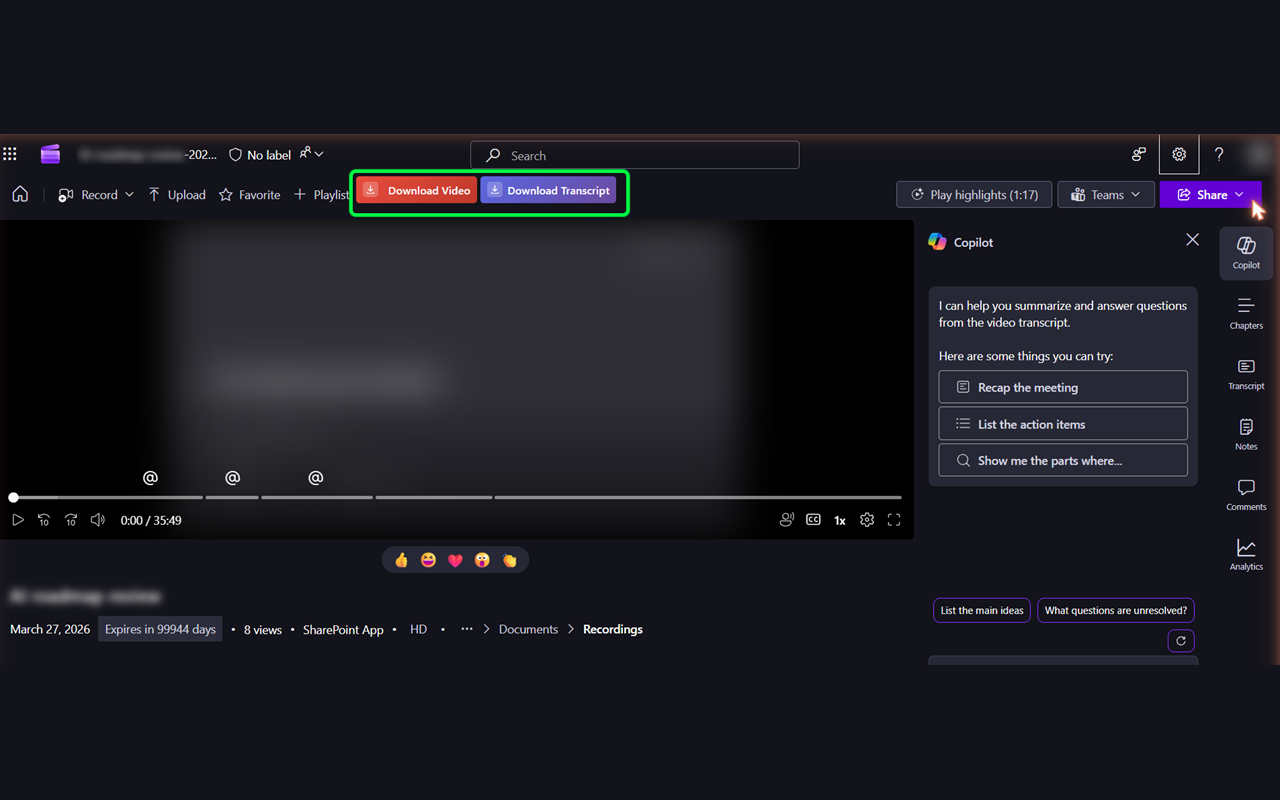
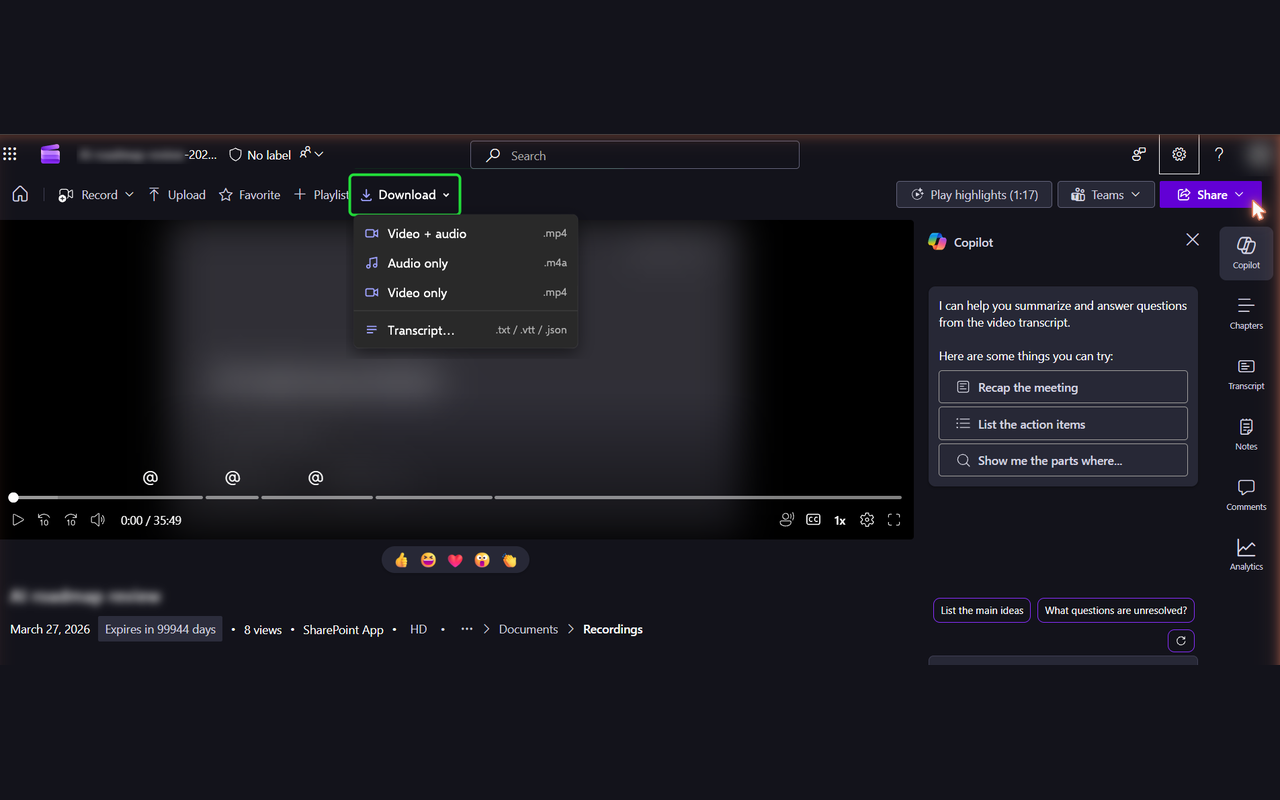
docs: README, demo site and store listing for the Download menu
New dark and light recording.png for the demo site and the 1280x800
store version derived from the dark one. They are your existing
captures with the two old buttons painted over and the extension's
own rendering of the Download menu, open, pasted in its place; the
rest of each image is the original, pixel for pixel. The highlight box
keeps the original colours (green on dark, yellow on light).

Text: the README image alt text and usage steps, the store
description's video, transcript and how-to sections, the demo site's
recording caption and the hero image's alt text now describe the
Download menu instead of the red and purple buttons.

Changed region(s): [[0.25, 0.1875, 0.5, 0.375], [0.2812, 0.4062, 0.3438, 0.4375], [0.4062, 0.4062, 0.4375, 0.4375]]

diff --git a/chrome-store/description.md b/chrome-store/description.md
@@ -27,7 +27,7 @@ WHERE IT WORKS
 
 VIDEO & AUDIO DOWNLOAD
 
-A red "Download Video" button appears in the top command bar of any recording. Click it, pick a format, and the file lands in your Downloads folder. No external tools.
+A "Download" menu appears in the command bar of any recording, next to Record and Upload. Pick a format and the file lands in your Downloads folder. No external tools.
 
 Three format options:
 🎬 Video + Audio (.mp4) — Best quality, original streams copied
@@ -63,9 +63,8 @@ Three professional formats:
 - Easy to scan and summarise
 
 How it works:
-- Click the "Transcript" tab on a recording page
-- A purple "Download Transcript" button appears in the transcript panel
-- Click it to see live previews of all three formats
+- Open the "Download" menu in the command bar and pick "Transcript…" (or use the Download Transcript button in the transcript panel)
+- See live previews of all three formats
 - Choose your format, customize the filename, and download
 
 If the meeting was never transcribed, the extension shows a clear "no transcript available" dialog rather than silently failing.
@@ -88,8 +87,8 @@ HOW TO USE
 
 1. Install the extension from the Chrome Web Store.
 2. Open a meeting recording or shared video in Teams, SharePoint, or the Stream player.
-3. For video: click "Download Video" in the command bar (or the floating banner). Pick a format and click Download — the file lands in your Downloads folder. Tune the "Parallel segment downloads" selector if you want faster (higher) or gentler-on-throttling (lower) downloads.
-4. For transcripts: click the Transcript tab, then "Download Transcript", choose a format, and save.
+3. For video: click "Download" in the command bar and pick Video + audio, Audio only or Video only (or use the floating banner). Click Download in the dialog — the file lands in your Downloads folder. Tune the "Parallel segment downloads" selector if you want faster (higher) or gentler-on-throttling (lower) downloads.
+4. For transcripts: click "Download", then "Transcript…", choose a format, and save.
 
 
 PERFECT FOR

diff --git a/README.md b/README.md
@@ -11,7 +11,7 @@
 
 Download videos and transcripts from MS Teams meeting recordings, SharePoint, and **Microsoft Stream** (videos uploaded to SharePoint/OneDrive and played through the Stream player) — even when the built-in download button is disabled.
 
-![Red Download Video and purple Download Transcript buttons added to the SharePoint command bar](demo-website/src/assets/screenshots/dark/recording.png)
+![The Download menu in the SharePoint command bar, open on Video + audio, Audio only, Video only and Transcript](demo-website/src/assets/screenshots/dark/recording.png)
 
 Works on:
 
@@ -67,14 +67,14 @@ Open <https://chromewebstore.google.com/detail/ms-teams-transcript-downl/hmljlkh
 ### Downloading video / audio
 
 1. Open any meeting recording or shared MP4 in Teams, SharePoint, or the Stream-on-SharePoint player.
-2. Click the red **Download Video** button in the command bar (or in the floating banner at the top of the page).
-3. Pick a format and click **Download**. The file lands in your Downloads folder.
+2. Click **Download** in the command bar and pick **Video + audio**, **Audio only** or **Video only** (or use **Download video** in the floating banner at the top of the page).
+3. The dialog opens on that format. Click **Download**. The file lands in your Downloads folder.
 4. *Optional:* tune the **Parallel segment downloads** selector (default 4) — higher = faster, but increases the chance of SharePoint throttling. 429s are auto-retried.
 
 ### Downloading the transcript
 
 1. Open the **Transcript** tab on a recording.
-2. Click **Download Transcript** in the transcript panel (or in the floating banner).
+2. Click **Download** → **Transcript…** in the command bar (or **Download Transcript** in the transcript panel or the floating banner).
 3. Pick a format in the modal and click **Download**.
 
 Your last-used format is remembered as the default.
